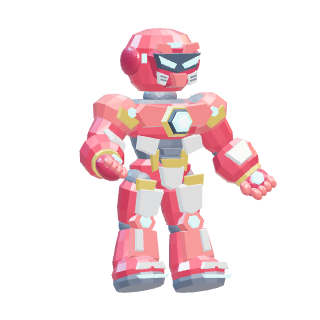
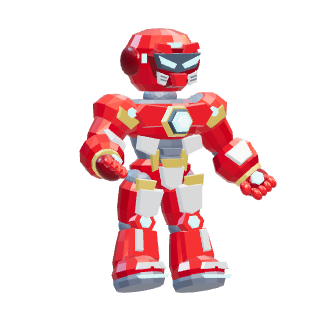
Nova Ward: volo con inerzia e curve, posa che segue velocità e accelerazioni, armatura più rossa
Accelerazione limitata, tratti ad arco con piccole sbandate, frenata morbida e
hovering che ondeggia. Corpo e arti seguono la posa con molle smorzate.

Claude-Session: https://claude.ai/code/session_019k1TWVy9QGMYzjb5DLawDJ

Changed region(s): [[0.25, 0.0625, 0.875, 0.875], [0.5625, 0.5, 0.5938, 0.5625]]

diff --git a/src/components/bgFlyer3d.js b/src/components/bgFlyer3d.js
@@ -24,10 +24,10 @@ export function createFlyer3D() {
   const base = new Map()
   let glow = []
   let size = 0
-  let yaw = 0
   let disposed = false
   const pointer = { x: 0, y: 0 }
   const look = { x: 0, y: 0 }
+  let current = null
 
   function mount(el) {
     host = el
@@ -69,7 +69,7 @@ export function createFlyer3D() {
       scene.environment = env.texture
       room.dispose()
       pmrem.dispose()
-      scene.add(new THREE.HemisphereLight(0xe4f5ff, 0x48273c, 1.6))
+      scene.add(new THREE.HemisphereLight(0xe4f5ff, 0x48273c, 1.1))
       const light = (color, intensity, pos) => {
         const l = new THREE.DirectionalLight(color, intensity)
         l.position.set(...pos)
@@ -103,6 +103,17 @@ export function createFlyer3D() {
         nodes[name] = node
         base.set(node, node.rotation.clone())
       }
+      // armatura più rossa del GLB originale, che tende al rosa
+      const reds = { 'Crimson enamel': 0xc8101c, 'Scarlet panel': 0xe01b26, 'Deep red': 0x7e0912 }
+      model.traverse((o) => {
+        if (!o.isMesh) return
+        for (const m of [].concat(o.material)) {
+          if (reds[m.name] !== undefined) {
+            m.color.setHex(reds[m.name])
+            m.roughness = Math.min(m.roughness ?? 0.5, 0.38)
+          }
+        }
+      })
       const mats = new Set()
       model.traverse((o) => {
         if (o.isMesh) for (const m of [].concat(o.material)) if (m.emissive && m.emissive.getHex() !== 0) mats.add(m)
@@ -156,27 +167,91 @@ export function createFlyer3D() {
     el.style.transform = `translate3d(${x - px / 2}px, ${y - px / 2}px, 0)`
   }
 
-  // Posa di volo: busto inclinato nel verso del moto, braccia aperte con i palmi in giù,
-  // gambe leggermente piegate, testa che guarda verso il mouse.
-  function pose(f, clock, thrust, cell, motion) {
+  // Molle smorzate: il corpo e gli arti inseguono la posa ideale con un po' di ritardo
+  // e di rimbalzo, invece di scattare. k = rigidezza, z = smorzamento (1 = senza rimbalzo).
+  const springs = {}
+  function spring(name, target, dt, k, z) {
+    const s = (springs[name] ??= { x: target, v: 0 })
+    const c = 2 * Math.sqrt(k) * z
+    s.v += (k * (target - s.x) - c * s.v) * dt
+    s.x += s.v * dt
+    return s.x
+  }
+
+  // Posa di volo, calcolata da velocità e accelerazione:
+  // - si inclina nelle curve e si gira di tre quarti verso dove va, con un po' di rimbalzo
+  // - accelerando le braccia restano indietro e le gambe si allungano dietro, frenando
+  //   il corpo si raddrizza e le gambe tornano sotto
+  // - salendo spinge con i palmi verso il basso, scendendo si sporge in avanti
+  // - sospeso a mezz'aria respira e ondeggia, gambe che si muovono appena
+  function pose(f, clock, cell, dt) {
+    const sp = cell * 2.6
+    const acc = sp * 2.4
+    const vx = f.vx / sp
+    const vy = f.vy / sp
+    const ax = f.ax / acc
+    const ay = f.ay / acc
+    const speed = Math.min(1, Math.hypot(vx, vy))
+    const fwd = vx * f.face // velocità nel verso in cui guarda
+    const fwdAcc = ax * f.face
+    const t = clock + f.seed
+    const calm = 1 - speed
+    const breathe = Math.sin(t * 1.7)
+    const T = {
+      yaw: f.face * (0.5 + 0.12 * Math.min(1, Math.abs(vx))) + 0.06 * Math.sin(t * 0.7),
+      roll: -(0.3 * vx + 0.14 * ax) + 0.03 * calm * Math.sin(t * 1.1),
+      pitch: 0.16 * vy + 0.1 * ay + 0.025 * calm * breathe,
+      armBack: 0.45 * fwdAcc + 0.2 * fwd,
+      armOpen: 0.42 + 0.18 * Math.max(0, -ay) + 0.04 * calm * breathe,
+      elbow: 0.25 + 0.25 * speed,
+      legBack: 0.35 * Math.max(0, fwd) + 0.2 * speed,
+      knee: 0.2 + 0.45 * speed + 0.15 * Math.max(0, -ay),
+      headX: 0.12 * vy,
+      kick: calm * 0.08
+    }
+    // passi piccoli: la molla resta stabile anche con un fotogramma lungo
+    let left = Math.min(dt, 0.5)
+    const st = {}
+    do {
+      const h = Math.min(left, 1 / 60)
+      left -= h
+      st.yaw = spring('yaw', T.yaw, h, 18, 0.55)
+      st.roll = spring('roll', T.roll, h, 26, 0.5)
+      st.pitch = spring('pitch', T.pitch, h, 22, 0.55)
+      st.armBack = spring('armBack', T.armBack, h, 20, 0.35)
+      st.armOpen = spring('armOpen', T.armOpen, h, 24, 0.45)
+      st.elbow = spring('elbow', T.elbow, h, 20, 0.5)
+      st.legBack = spring('legBack', T.legBack, h, 12, 0.4)
+      st.knee = spring('knee', T.knee, h, 14, 0.45)
+      st.headX = spring('headX', T.headX, h, 30, 0.7)
+    } while (left > 1e-4)
+
+    pivot.rotation.set(st.pitch, st.yaw, st.roll, 'ZYX')
+
     for (const [obj, rot] of base) obj.rotation.copy(rot)
     const n = nodes
-    const swing = motion ? Math.sin(clock * 2.4) : 0
-    if (n.Shoulder_L) n.Shoulder_L.rotation.z -= 0.42 + swing * 0.05
-    if (n.Shoulder_R) n.Shoulder_R.rotation.z += 0.42 + swing * 0.05
-    if (n.Shoulder_L) n.Shoulder_L.rotation.x += 0.15 * thrust
-    if (n.Shoulder_R) n.Shoulder_R.rotation.x += 0.15 * thrust
-    if (n.Elbow_L) n.Elbow_L.rotation.x -= 0.25
-    if (n.Elbow_R) n.Elbow_R.rotation.x -= 0.25
-    if (n.Hip_L) n.Hip_L.rotation.x += 0.12 + 0.18 * thrust
-    if (n.Hip_R) n.Hip_R.rotation.x += 0.05 + 0.1 * thrust
-    if (n.Knee_L) n.Knee_L.rotation.x -= 0.3 + 0.2 * thrust
-    if (n.Knee_R) n.Knee_R.rotation.x -= 0.15 + 0.15 * thrust
-    if (n.Head && motion) {
-      n.Head.rotation.y += look.x * 0.35
-      n.Head.rotation.x += look.y * 0.2
+    const lag = Math.sin(t * 2.9) // gambe e braccia non sono mai perfettamente simmetriche
+    if (n.Body) n.Body.rotation.z += 0.03 * calm * Math.sin(t * 0.9)
+    if (n.Shoulder_L) {
+      n.Shoulder_L.rotation.z -= st.armOpen + 0.03 * lag
+      n.Shoulder_L.rotation.x += st.armBack
     }
-    for (const m of glow) m.emissiveIntensity = motion ? 1.3 + 0.2 * Math.sin(clock * 2.3) : 1.3
+    if (n.Shoulder_R) {
+      n.Shoulder_R.rotation.z += st.armOpen - 0.03 * lag
+      n.Shoulder_R.rotation.x += st.armBack * 0.85
+    }
+    if (n.Elbow_L) n.Elbow_L.rotation.x -= st.elbow
+    if (n.Elbow_R) n.Elbow_R.rotation.x -= st.elbow * 1.1
+    if (n.Hip_L) n.Hip_L.rotation.x += st.legBack + 0.08 + T.kick * Math.sin(t * 2.2)
+    if (n.Hip_R) n.Hip_R.rotation.x += st.legBack * 0.7 + T.kick * Math.sin(t * 2.2 + 2.4)
+    if (n.Knee_L) n.Knee_L.rotation.x -= st.knee + 0.12
+    if (n.Knee_R) n.Knee_R.rotation.x -= st.knee * 0.75
+    if (n.Head) {
+      n.Head.rotation.y += look.x * 0.35
+      n.Head.rotation.x += look.y * 0.2 + st.headX
+    }
+    const thrust = Math.min(1, 0.3 * speed + Math.hypot(ax, ay))
+    for (const m of glow) m.emissiveIntensity = 1.2 + 0.35 * thrust + 0.08 * Math.sin(t * 2.3)
   }
 
   // Disegna il personaggio centrato in (x, y). Restituisce i punti da cui escono le
@@ -204,16 +279,15 @@ export function createFlyer3D() {
     const k = Math.min(1, dt * 5)
     look.x += (lx - look.x) * k
     look.y += (ly - look.y) * k
+    // nuovo volo: le molle ripartono dalla posa di adesso
+    if (f !== current) {
+      current = f
+      for (const key of Object.keys(springs)) delete springs[key]
+    }
 
-    // si gira di tre quarti verso dove vola
-    const targetYaw = f.face * 0.55
-    yaw += (targetYaw - yaw) * Math.min(1, dt * 6)
-    pivot.rotation.set(0, yaw, 0, 'ZYX')
-    const tilt = Math.max(-0.35, Math.min(0.35, (f.vx / (cell * 2.6)) * 0.35))
-    pivot.rotation.z = -tilt
     pivot.scale.setScalar(Math.max(0.001, f.scale))
-    renderer.toneMappingExposure = light ? 1.0 : 1.12
-    pose(f, clock, thrust, cell, motion)
+    renderer.toneMappingExposure = light ? 0.95 : 1.05
+    pose(f, clock, cell, dt)
     renderer.render(scene, camera)
 
     // punti delle fiammelle, proiettati sullo schermo

diff --git a/src/components/bgFlyer.js b/src/components/bgFlyer.js
@@ -8,10 +8,11 @@
 import { createFlyer3D } from './bgFlyer3d'
 
 const SPEED = 2.6 // celle al secondo
-const STEER = 2.6 // prontezza nel cambiare direzione (più alto = curve più strette)
+const STEER = 2.2 // prontezza nel cambiare direzione (più alto = curve più strette)
+const ACCEL = 2.4 // accelerazione massima, in velocità massime al secondo: dà inerzia al volo
 const LIFE = [12, 22] // secondi in volo prima di dirigersi verso l'uscita
 const PAUSE = [6, 14] // secondi tra un'uscita e il rientro successivo
-const HOVER = [0.3, 1.4] // secondi fermo a mezz'aria a ogni tappa
+const HOVER = [0.6, 2.2] // secondi fermo a mezz'aria a ogni tappa
 const EXIT_TIMEOUT = 15 // secondi massimi per uscire, poi sparisce sul posto
 const NAV = 80 // px della barra di navigazione in alto
 
@@ -46,7 +47,25 @@ export function createFlyer() {
     const m = view.cell
     const y = rand(NAV + m, view.height - m)
     const x = fromLeft ? -m : view.width + m
-    f = { x, y, vx: fromLeft ? 1 : -1, vy: 0, tx: x, ty: y, hover: 0, age: 0, life: rand(...LIFE), scale: 1, face: fromLeft ? 1 : -1 }
+    f = {
+      x,
+      y,
+      vx: (fromLeft ? 1 : -1) * SPEED * m * 0.6,
+      vy: 0,
+      ax: 0,
+      ay: 0,
+      tx: x,
+      ty: y,
+      hx: x,
+      hy: y,
+      hover: 0,
+      curve: 0,
+      seed: rand(0, 100),
+      age: 0,
+      life: rand(...LIFE),
+      scale: 1,
+      face: fromLeft ? 1 : -1
+    }
     pickTarget(view)
   }
 
@@ -64,6 +83,8 @@ export function createFlyer() {
       if (Math.hypot(tx - f.x, ty - f.y) > view.width * 0.25 && !crosses(f.x, f.y, tx, ty, r, m * 0.5)) break
     }
     if (best) [f.tx, f.ty] = best
+    // ogni tratto è un arco, piegato da una parte o dall'altra
+    f.curve = rand(0.25, 0.7) * (Math.random() < 0.5 ? -1 : 1)
   }
 
   // uscita: verso il bordo laterale più vicino, sopra o sotto la scritta se è in mezzo
@@ -78,6 +99,7 @@ export function createFlyer() {
     }
     f.tx = tx
     f.ty = ty
+    f.curve = 0
     f.exiting = true
   }
 
@@ -104,31 +126,71 @@ export function createFlyer() {
     if (f.age > f.life && !f.exiting) pickExit(view)
     if (f.age > f.life + EXIT_TIMEOUT) f.scale = Math.max(0, f.scale - dt / 0.35)
 
-    const speed = SPEED * view.cell
+    // a passi piccoli, così l'inerzia resta stabile anche dopo una pausa lunga
+    let left = dt
+    while (left > 0) {
+      const h = Math.min(left, 1 / 60)
+      left -= h
+      step(h, view)
+    }
+    // resta nello schermo visibile (tranne quando entra o esce dai lati)
+    f.y = Math.min(Math.max(f.y, NAV + view.cell * 0.5), view.height - view.cell * 0.5)
+    if (Math.abs(f.vx) > SPEED * view.cell * 0.15) f.face = f.vx > 0 ? 1 : -1
+    if (f.gone || f.scale <= 0) f = null
+    return true
+  }
+
+  let lastDt = 0
+
+  // Un passo di volo: si calcola la velocità desiderata e ci si arriva con accelerazione
+  // limitata, così parte, frena e curva con un po' di inerzia.
+  function step(dt, view) {
+    const cell = view.cell
+    const speed = SPEED * cell
     const dx = f.tx - f.x
     const dy = f.ty - f.y
     const dist = Math.hypot(dx, dy)
+    const t = clock + f.seed
     let wx = 0
     let wy = 0
+    let steer = STEER
     if (f.hover > 0) {
+      // sospeso a mezz'aria: ondeggia piano intorno al punto, mai fermo del tutto
       f.hover -= dt
+      const px = f.hx + Math.sin(t * 0.9) * cell * 0.22 + Math.sin(t * 2.3) * cell * 0.05
+      const py = f.hy + Math.sin(t * 1.4 + 1) * cell * 0.16 + Math.sin(t * 3.1) * cell * 0.04
+      wx = (px - f.x) * 2.5
+      wy = (py - f.y) * 2.5
+      steer = 3
       if (f.hover <= 0) pickTarget(view)
-    } else if (dist < view.cell * 0.35) {
+    } else if (dist < cell * 0.5) {
       if (f.exiting) {
         // arrivato al bordo: se è già fuori ha finito, altrimenti prosegue verso l'esterno
-        if (f.x < -view.cell || f.x > view.width + view.cell) f.gone = true
+        if (f.x < -cell || f.x > view.width + cell) f.gone = true
         else pickExit(view)
-      } else f.hover = rand(...HOVER)
+      } else {
+        f.hover = rand(...HOVER)
+        f.hx = f.x
+        f.hy = f.y
+      }
     } else {
-      // rallenta avvicinandosi alla tappa
-      const k = Math.min(1, dist / (view.cell * 1.5))
-      wx = (dx / dist) * speed * Math.max(k, 0.35)
-      wy = (dy / dist) * speed * Math.max(k, 0.35)
+      // frena dolcemente in arrivo (curva a S), parte con slancio
+      const near = Math.min(1, dist / (cell * 2.6))
+      const k = Math.max(near * near * (3 - 2 * near), 0.18)
+      // direzione piegata ad arco, più qualche sbandata lenta e irregolare
+      const wander = 0.22 * Math.sin(t * 0.83) + 0.12 * Math.sin(t * 1.97 + 2) + 0.06 * Math.sin(t * 4.1)
+      const ang = f.curve * Math.min(1, dist / (cell * 5)) + wander * (f.exiting ? 0.4 : 1)
+      const c = Math.cos(ang)
+      const s = Math.sin(ang)
+      const ux = dx / dist
+      const uy = dy / dist
+      wx = (ux * c - uy * s) * speed * k
+      wy = (ux * s + uy * c) * speed * k
     }
     // tiene le distanze dalla scritta
     const r = view.avoid
     if (r && !f.exiting) {
-      const m = view.cell * 0.9
+      const m = cell * 0.9
       const nx = Math.min(Math.max(f.x, r.x0), r.x1)
       const ny = Math.min(Math.max(f.y, r.y0), r.y1)
       const ex = f.x - nx
@@ -142,27 +204,33 @@ export function createFlyer() {
         } else wy += f.y < (r.y0 + r.y1) / 2 ? -push : push
       }
     }
-    const a = Math.min(1, STEER * dt)
-    f.vx += (wx - f.vx) * a
-    f.vy += (wy - f.vy) * a
+    let ax = (wx - f.vx) * steer
+    let ay = (wy - f.vy) * steer
+    const am = Math.hypot(ax, ay)
+    const max = ACCEL * speed
+    if (am > max) {
+      ax *= max / am
+      ay *= max / am
+    }
+    f.vx += ax * dt
+    f.vy += ay * dt
     f.x += f.vx * dt
     f.y += f.vy * dt
-    // resta nello schermo visibile (tranne quando entra o esce dai lati)
-    f.y = Math.min(Math.max(f.y, NAV + view.cell * 0.5), view.height - view.cell * 0.5)
-    if (Math.abs(f.vx) > speed * 0.15) f.face = f.vx > 0 ? 1 : -1
-    if (f.gone || f.scale <= 0) f = null
-    return true
+    // accelerazione addolcita, usata per la posa del corpo e le fiammelle
+    const sa = Math.min(1, dt * 8)
+    f.ax += (ax - f.ax) * sa
+    f.ay += (ay - f.ay) * sa
   }
-
-  let lastDt = 0
 
   function draw(ctx, view) {
     if (!f || f.scale <= 0) {
       body.hide()
       return
     }
-    const thrust = Math.min(1, Math.hypot(f.vx, f.vy) / (SPEED * view.cell))
-    const bob = Math.sin(clock * 3.2) * view.cell * 0.03
+    const sp = SPEED * view.cell
+    // spinta: un po' per restare in aria, di più quando accelera
+    const thrust = Math.min(1, 0.25 * Math.hypot(f.vx, f.vy) / sp + 0.75 * Math.hypot(f.ax, f.ay) / (ACCEL * sp))
+    const bob = (Math.sin(clock * 2.1 + f.seed) + 0.4 * Math.sin(clock * 3.7)) * view.cell * 0.02
     const points = body.draw(f, f.x, f.y + bob, view.cell, clock, thrust, view.light, lastDt, true)
     drawFlames(ctx, f, view.cell, clock, thrust, view.light, points)
   }
